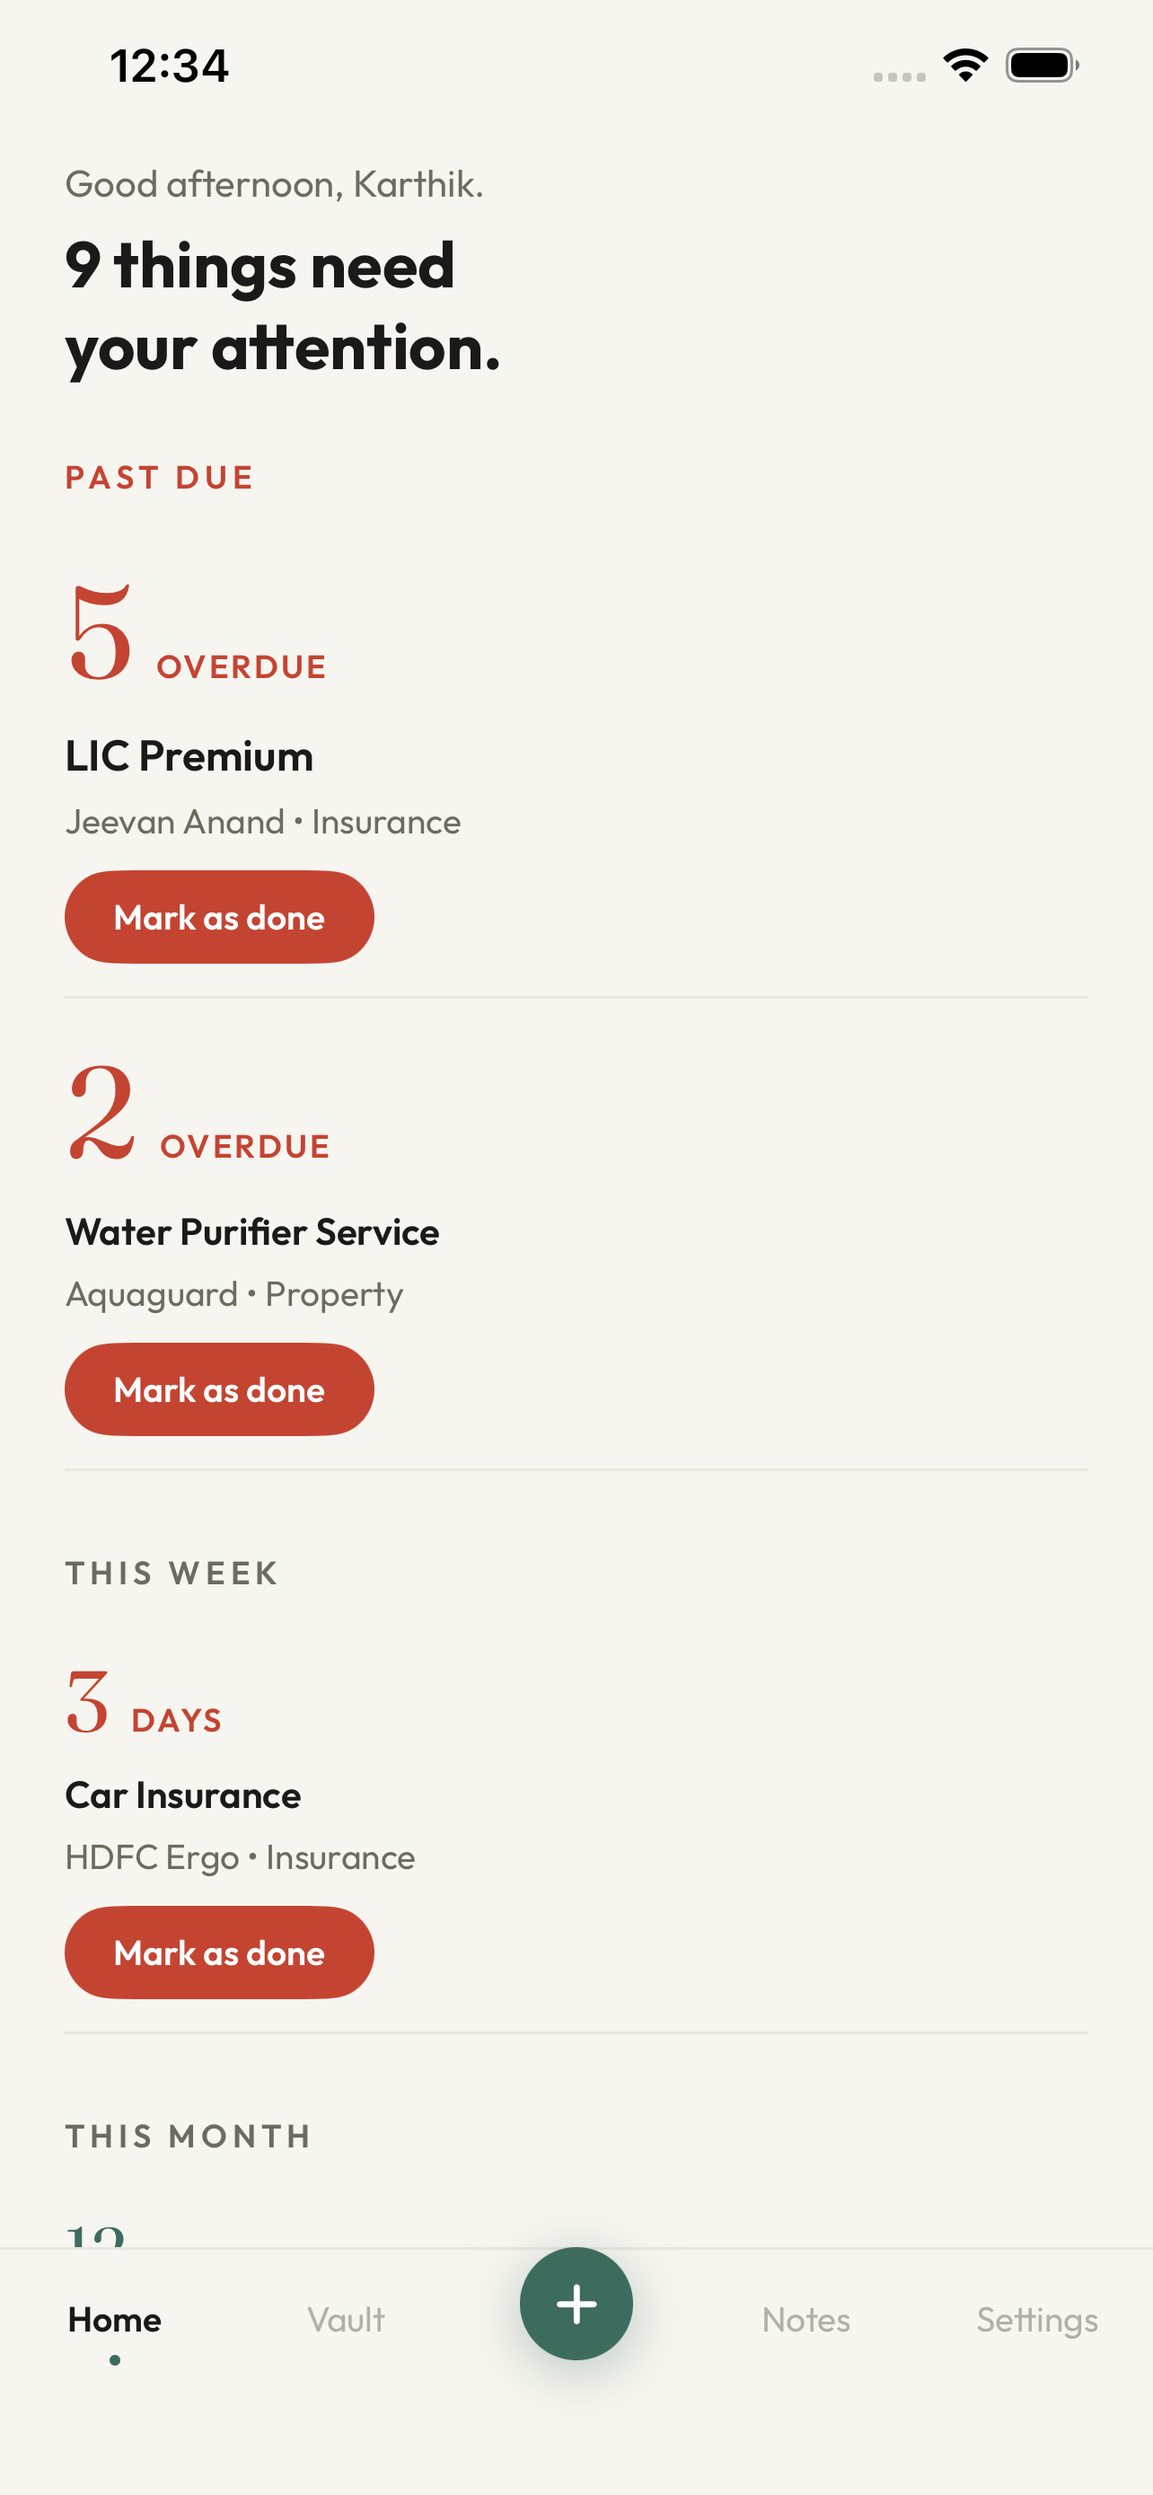
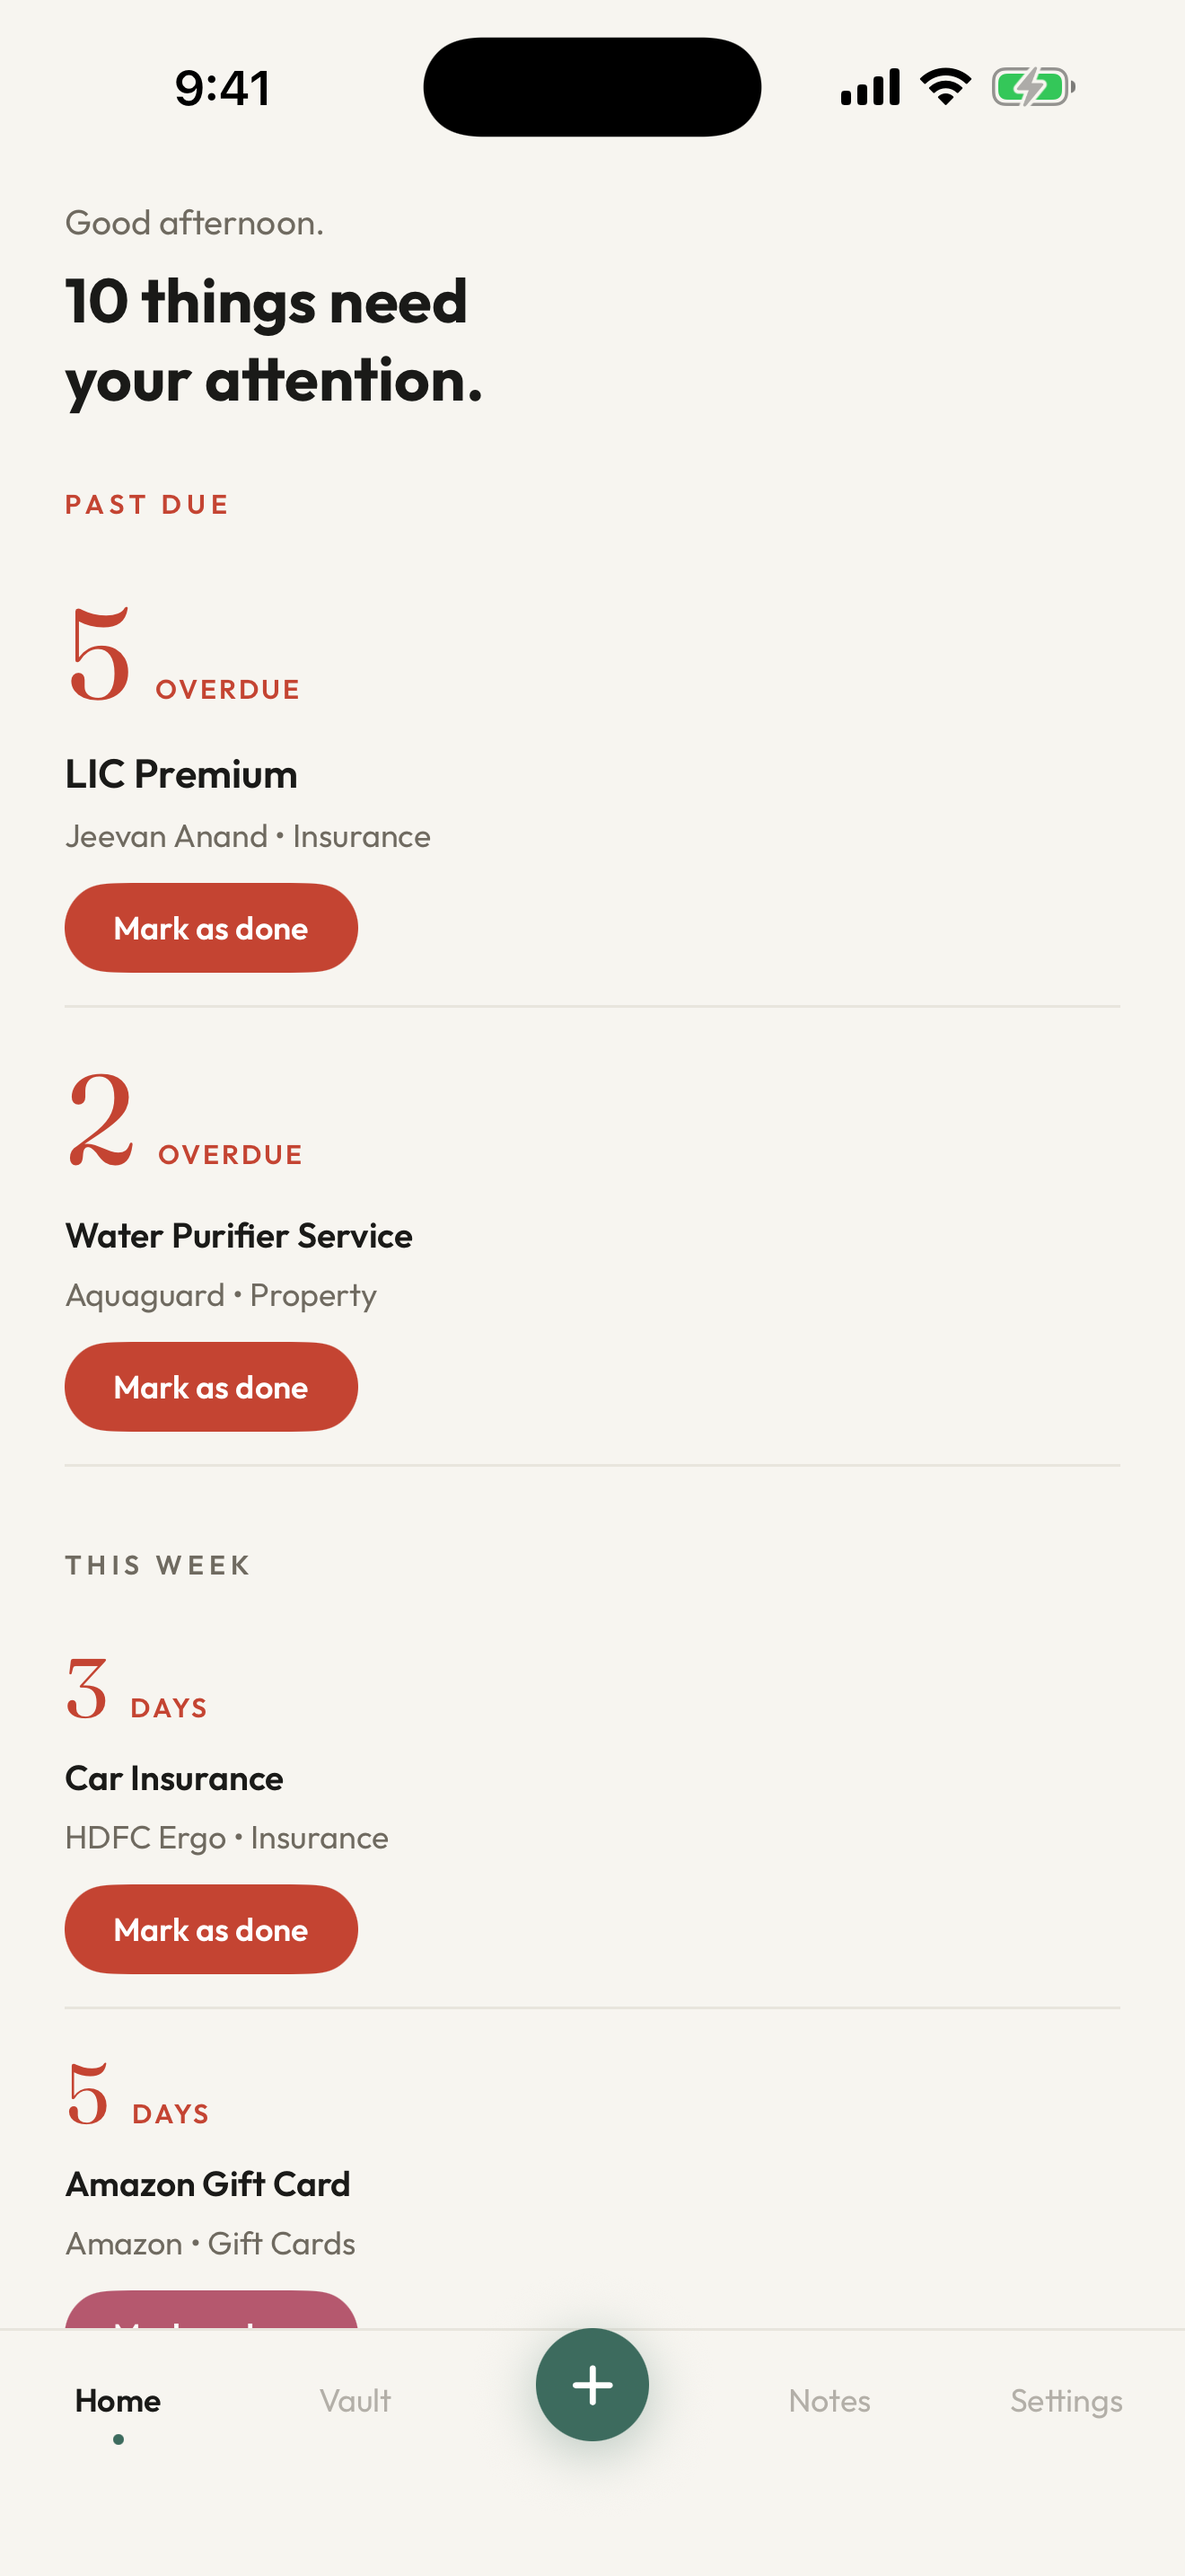
OneVault: lead on documents, add Gift Cards, refresh screenshots
The page pitched reminders and never mentioned that OneVault holds the
documents themselves — or that they come back out. Two new sections cover
attaching photos and PDFs to any item, entry or note, and sending them on
with Save to Files, Mail, AirDrop or print.

Gift Cards is a new tenth category: brand, card number, PIN and balance,
with an expiry reminder. Underserved, and the one that quietly costs
people money by being forgotten.

Screenshots recaptured from the current build — Home and Vault now show
Gift Cards, and the set gains a gift card and an open document.

diff --git a/onevault/index.html b/onevault/index.html
@@ -4,7 +4,7 @@
     <meta charset="UTF-8">
     <meta name="viewport" content="width=device-width, initial-scale=1.0">
     <title>OneVault — Life Admin</title>
-    <meta name="description" content="OneVault keeps everything in your life that happens on a date — insurance renewals, medicine refills, document expiries, bills and birthdays — and tells you what needs you today. No accounts. No tracking. No subscriptions.">
+    <meta name="description" content="OneVault keeps every document, renewal and date that matters in one place — insurance papers, gift cards, prescriptions, passports — reminds you before they expire, and lets you send any of them anywhere. No accounts. No tracking. No subscriptions.">
     <link rel="icon" href="/onevault/images/icon.png">
     <link rel="preconnect" href="https://fonts.googleapis.com">
     <link rel="preconnect" href="https://fonts.gstatic.com" crossorigin>
@@ -327,7 +327,7 @@
             <img src="/onevault/images/icon.png" alt="OneVault app icon">
         </div>
         <h1>One<span>Vault</span></h1>
-        <p class="tagline">Everything that needs your attention. Insurance, documents, refills, bills — sorted by what needs you first.</p>
+        <p class="tagline">Every document, every renewal, every date that matters — in one place, and out again whenever you need them.</p>
         <div class="price-badge">30 days free · One-time purchase · No subscriptions</div>
         <p class="status-note">For iPhone and iPad. Coming soon to the App Store.</p>
     </section>
@@ -338,6 +338,19 @@
         <p>Insurance renewals. Medicine refills. Passport expiry. Property tax. The car service. Your sister's birthday. Past due items come first and largest; this week next, then this month. Nothing else competes for your eye.</p>
         <p>Tap "Mark as done" and OneVault records what happened — the date, the amount, a note, a receipt — then moves the reminder forward one cycle. Your history builds itself.</p>
         <p>And for the things that have no date at all — WiFi passwords, blood groups, locker combinations — there are Notes. Titles only in the list, never a preview, because that is where people keep passwords.</p>
+    </section>
+
+    <section class="section">
+        <h2 class="section-title">Every document, in one place</h2>
+        <p>Photograph the policy. Import the PDF. Attach the receipt to the renewal you just paid.</p>
+        <p>Insurance papers, warranty cards, prescriptions, the passport scan, the property deed, the invoice you'll want at tax time — attach photos and PDFs to any item, any history entry, or any note. Camera, photo library or Files, whichever you have it in.</p>
+        <p>No more hunting through four apps and an email thread for the document you had a year ago. It's on the thing it belongs to.</p>
+    </section>
+
+    <section class="section">
+        <h2 class="section-title">And out again, anywhere</h2>
+        <p>Send the policy to your agent. Mail the warranty to a repair shop. Print the receipt for a claim.</p>
+        <p>Open any document and tap share — Save to Files, Mail, AirDrop, print, whatever you use. Your records come out as easily as they went in. Nothing is locked in a format only this app can read.</p>
     </section>
 
     <section class="screenshots">
@@ -352,16 +365,20 @@
                 <span class="screenshot-caption">Your vault</span>
             </div>
             <div class="screenshot-item">
-                <img src="/onevault/images/screenshots/04-item-detail.png" alt="An item with its full record and history timeline" loading="lazy">
+                <img src="/onevault/images/screenshots/04-gift-card.png" alt="A gift card with its brand, code, balance and expiry date" loading="lazy">
+                <span class="screenshot-caption">Gift cards</span>
+            </div>
+            <div class="screenshot-item">
+                <img src="/onevault/images/screenshots/06-document-viewer.png" alt="A document open in OneVault, with the share button in the toolbar" loading="lazy">
+                <span class="screenshot-caption">Documents</span>
+            </div>
+            <div class="screenshot-item">
+                <img src="/onevault/images/screenshots/09-item-detail.png" alt="An item with its full record and history timeline" loading="lazy">
                 <span class="screenshot-caption">Full record</span>
             </div>
             <div class="screenshot-item">
-                <img src="/onevault/images/screenshots/05-notes.png" alt="Notes for dateless reference information" loading="lazy">
+                <img src="/onevault/images/screenshots/07-notes.png" alt="Notes for dateless reference information" loading="lazy">
                 <span class="screenshot-caption">Notes</span>
-            </div>
-            <div class="screenshot-item">
-                <img src="/onevault/images/screenshots/06-year-in-review.png" alt="Year in review showing renewal spending" loading="lazy">
-                <span class="screenshot-caption">Year in review</span>
             </div>
         </div>
     </section>
@@ -374,8 +391,16 @@
                 <p>The most overdue thing is the biggest thing on screen. No badges to decode, no lists to scan.</p>
             </div>
             <div class="feature">
-                <div class="feature-title">Nine Categories</div>
-                <p>Insurance, Health, Bills, Gold, Electronics, Vehicles, Property, Documents and Dates — each with its own fields. Add your own too.</p>
+                <div class="feature-title">Ten Categories</div>
+                <p>Insurance, Health, Bills, Gold, Electronics, Vehicles, Property, Gift Cards, Documents and Dates — each with its own fields. Add your own too.</p>
+            </div>
+            <div class="feature">
+                <div class="feature-title">Gift Cards Before They Expire</div>
+                <p>The one nobody tracks. Brand, card number, PIN and balance — reminded while the card is still worth something.</p>
+            </div>
+            <div class="feature">
+                <div class="feature-title">Documents In, Documents Out</div>
+                <p>Attach photos and PDFs to anything. Send any of them on with Save to Files, Mail, AirDrop or print.</p>
             </div>
             <div class="feature">
                 <div class="feature-title">History That Writes Itself</div>
